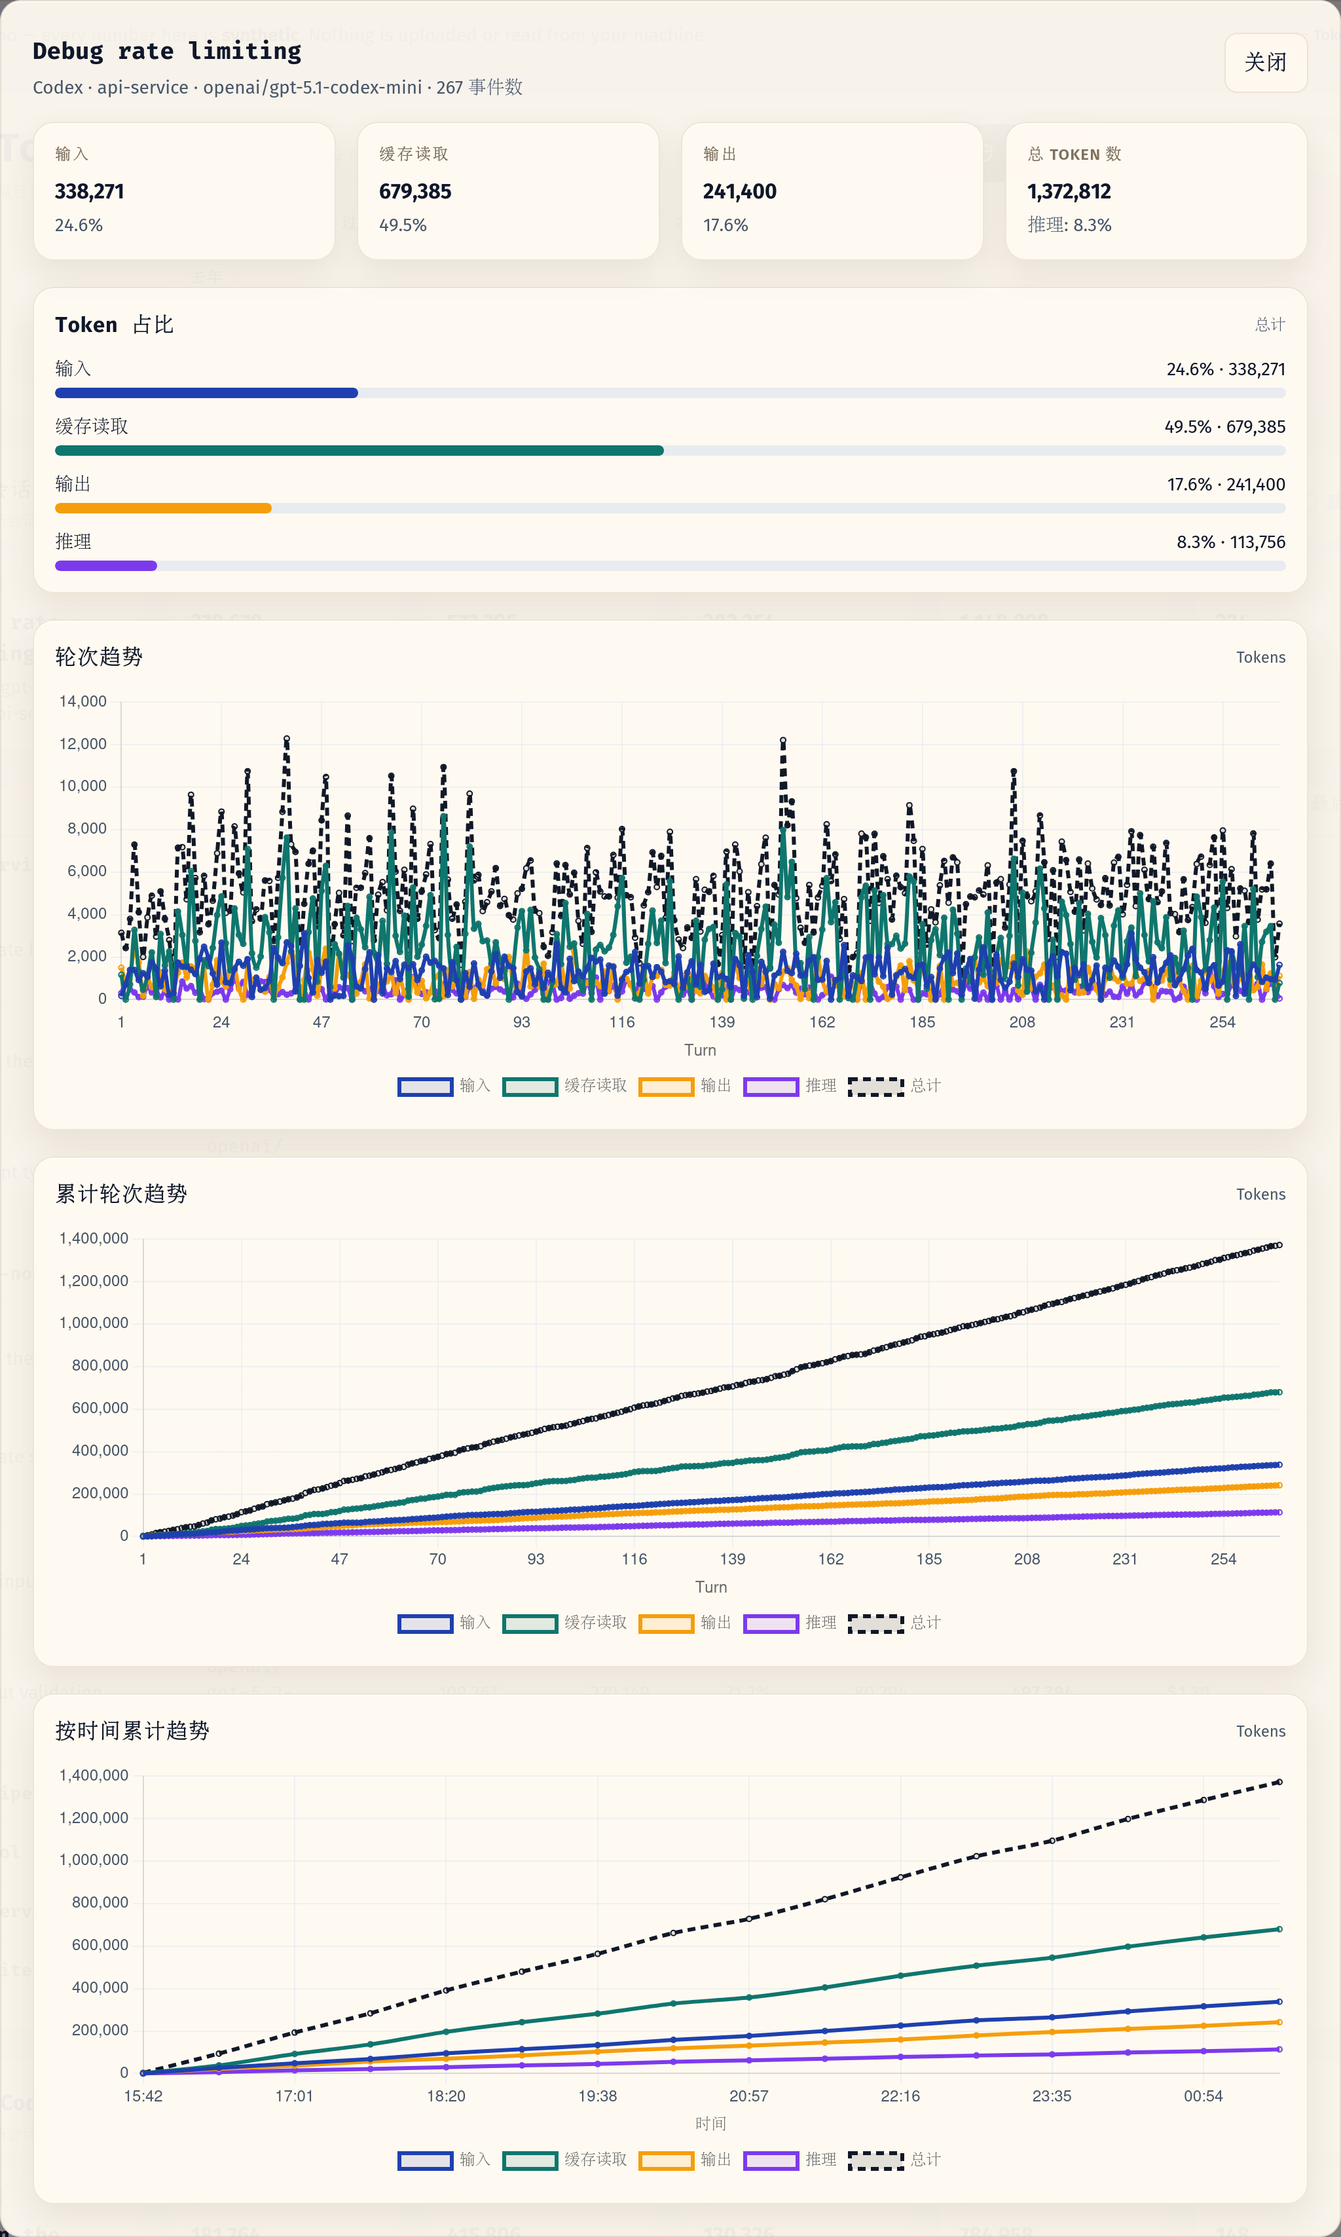
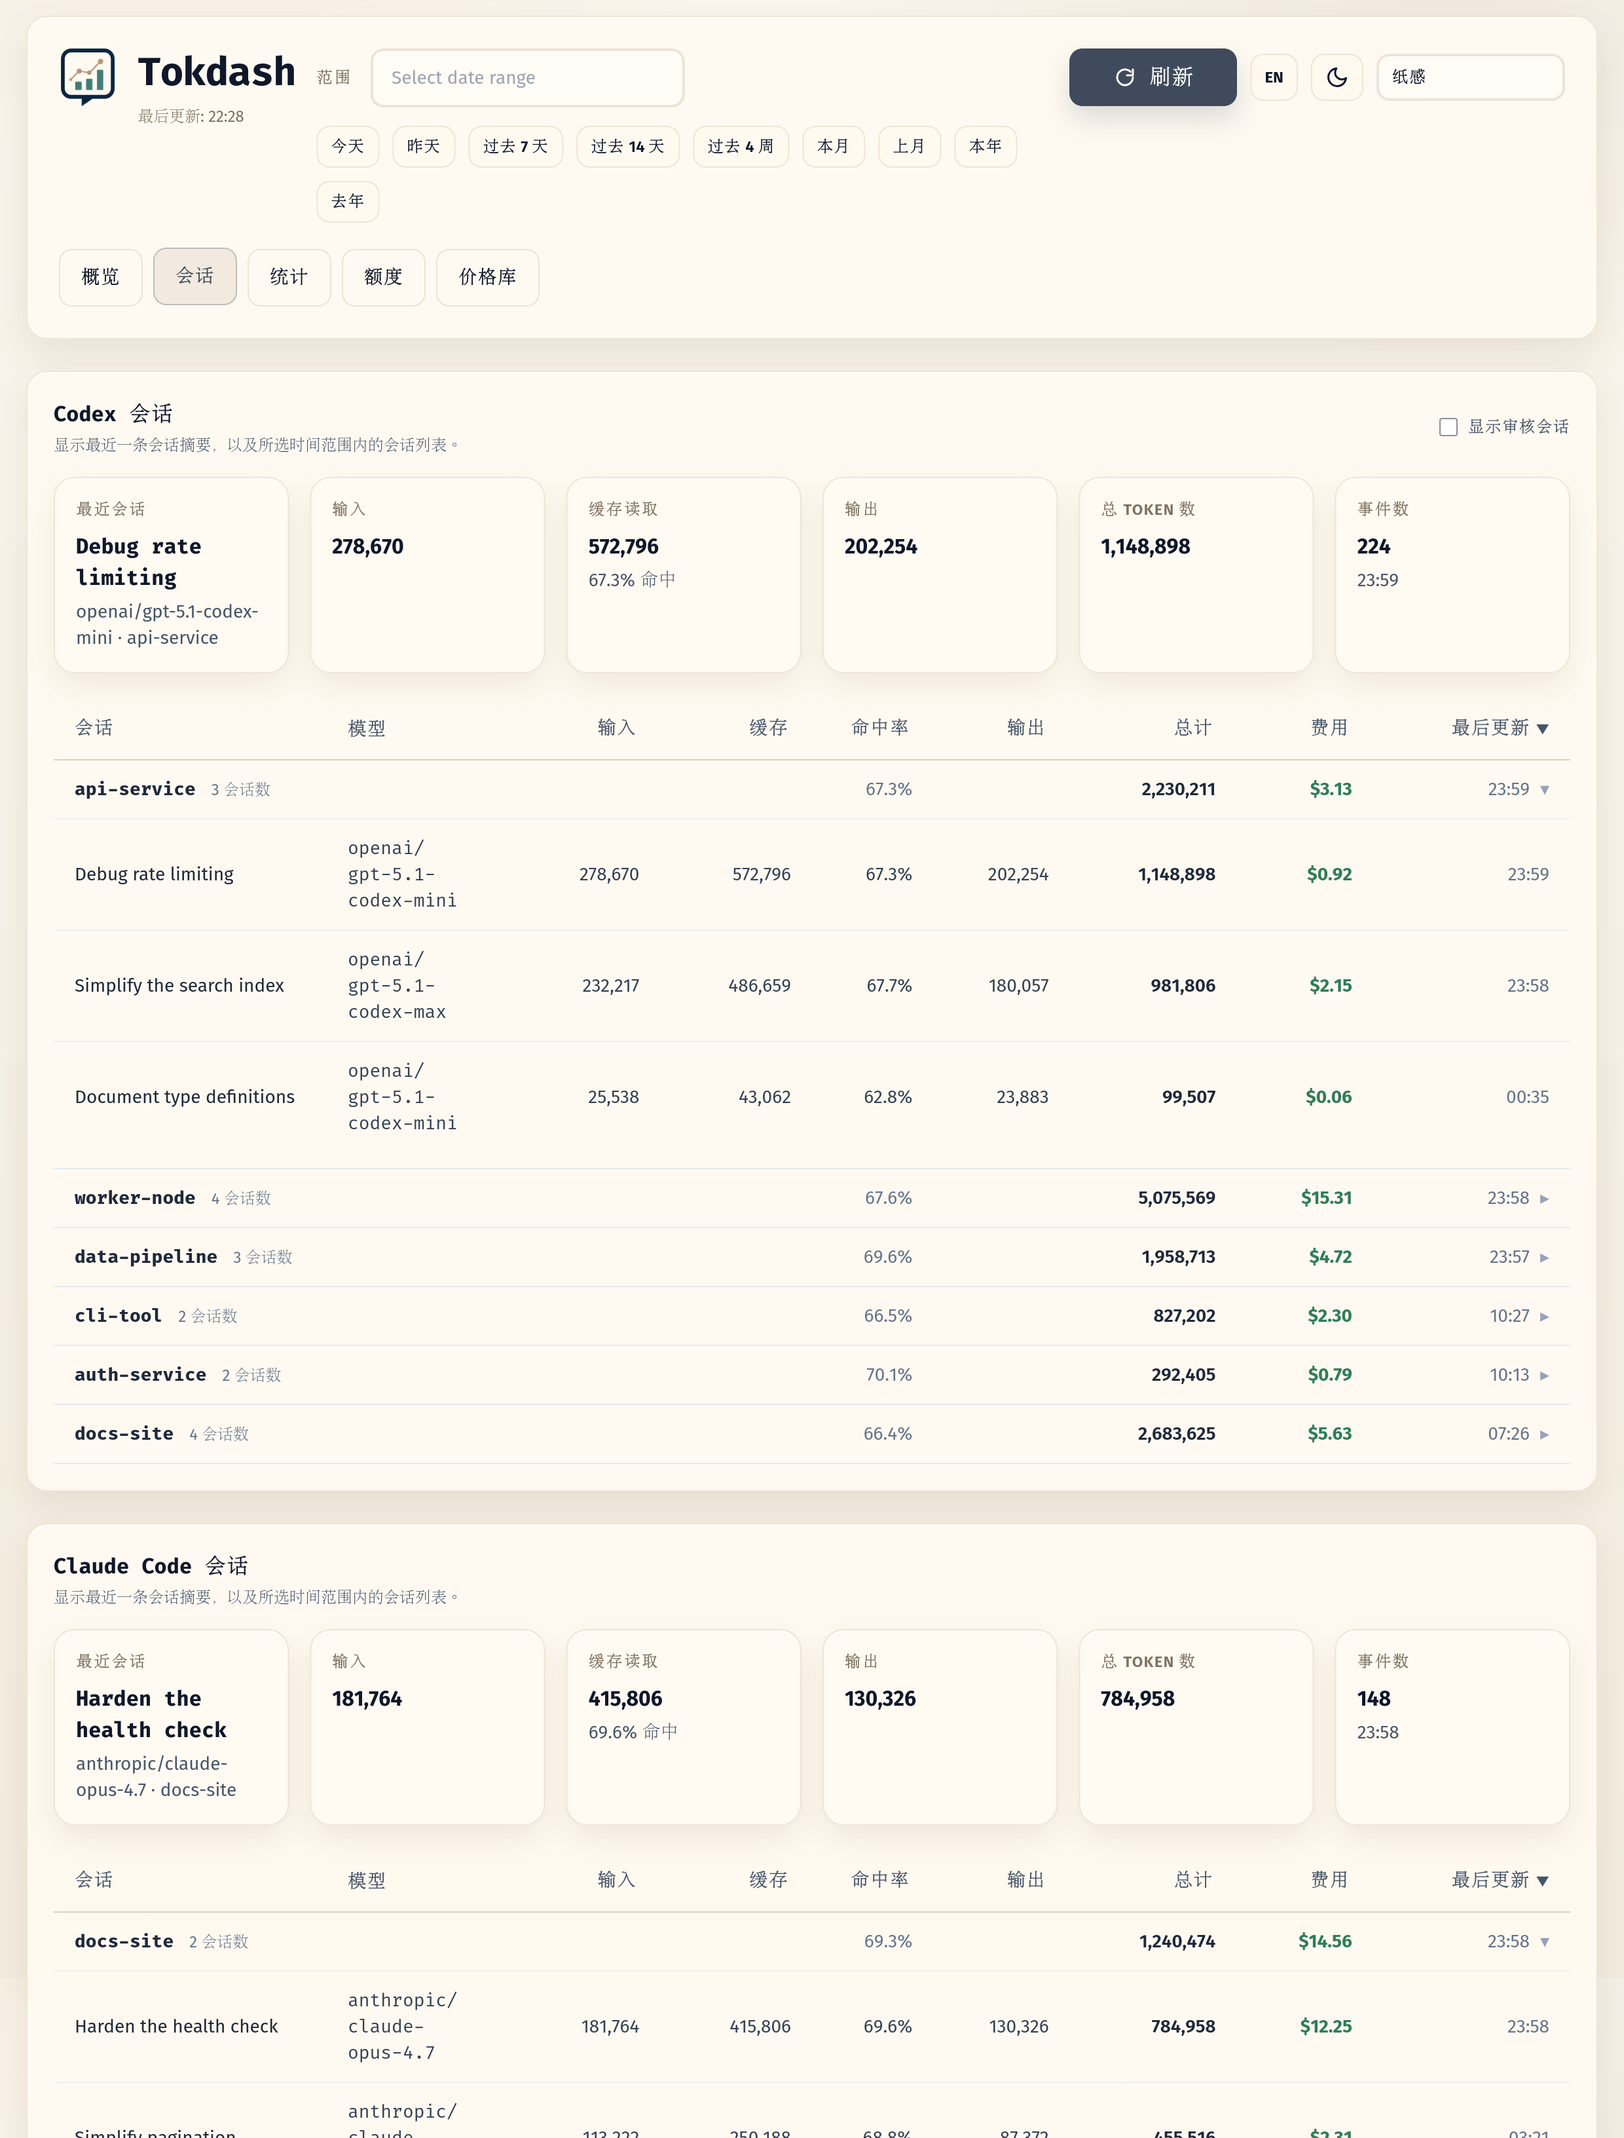
update readme

diff --git a/README.md b/README.md
@@ -45,10 +45,9 @@
 ## Table of Contents
 
 - [Features](#features)
-- [Live demo](#live-demo)
 - [Supported clients](docs/SUPPORTED_CLIENTS.md)
-- [Platform support](#platform-support)
 - [Quick start](#quick-start)
+  - [Platform support](#platform-support)
 - [Configuration](#configuration)
 - [Privacy \& security](#privacy--security)
 - [API (local)](#api-local)
@@ -63,13 +62,11 @@
 
 - **Exact token counts**: Input/Output/Cache token breakdowns
 - **Statusline integration** *[new]*: drop a live token-usage indicator into Claude Code's statusline (or any agent that can hit a local HTTP endpoint) — see [Statusline integration](#statusline-integration)
-- **Custom date ranges**: Flatpickr date picker + quick range buttons (Today, Last 7 Days, This Month, etc.)
+- **Custom date ranges**: Flatpickr date picker + quick range buttons
 - **Contribution calendar**: 2D heatmap + 3D isometric view with Tokens/Cost/Messages metrics
-- **Session explorer**: per-session drill-down for Codex, Claude Code, OpenCode, and Pi
+- **Session explorer**: per-session drill-down
 - **Quota tab** *[new]*: subscription window bars with reset countdowns for Codex, Claude Code, and Antigravity. Codex windows work out of the box from local logs; Codex reset credits, metered features, and all Claude/Antigravity quota need opt-in [live polling](#quota-tracking-optional)
-- **10 style themes**: Elevated, Classic, Vibrant, Midnight, Paper, Liquid, Terminal, Brutalist, Arcade, Studio
-- **Light & dark mode**: auto-detects system preference, manual toggle
-- **PWA support**: installable as a progressive web app
+- **Themes and app polish**: 10 style themes, light/dark mode, and PWA install support
 
 <p align="center">
   <b>Overview</b><br />
@@ -78,15 +75,21 @@
   </a>
 </p>
 <p align="center">
-  <b>Session detail</b><br />
+  <b>Sessions</b><br />
   <a href="https://tokdash.github.io/demo/">
-    <img src="https://raw.githubusercontent.com/JingbiaoMei/Tokdash/main/docs/assets/demo-session-en.png" alt="Tokdash session detail - click for live demo" width="720" />
+    <img src="https://raw.githubusercontent.com/JingbiaoMei/Tokdash/main/docs/assets/demo-session-en.png" alt="Tokdash sessions view - click for live demo" width="860" />
   </a>
 </p>
 <p align="center">
-  <b>Usage heatmap</b><br />
+  <b>Monthly usage heatmap</b><br />
   <a href="https://tokdash.github.io/demo/">
-    <img src="https://raw.githubusercontent.com/JingbiaoMei/Tokdash/main/docs/assets/demo-heatmap-en.png" alt="Tokdash usage heatmap - click for live demo" width="860" />
+    <img src="https://raw.githubusercontent.com/JingbiaoMei/Tokdash/main/docs/assets/demo-heatmap-en.png" alt="Tokdash monthly usage heatmap - click for live demo" width="860" />
+  </a>
+</p>
+<p align="center">
+  <b>Yearly usage heatmap</b><br />
+  <a href="https://tokdash.github.io/demo/">
+    <img src="https://raw.githubusercontent.com/JingbiaoMei/Tokdash/main/docs/assets/demo-heatmap-year-en.png" alt="Tokdash yearly usage heatmap - click for live demo" width="860" />
   </a>
 </p>
 <p align="center">
@@ -96,38 +99,19 @@
   </a>
 </p>
 <p align="center">
-  <b>Codex quota close-up</b><br />
+  <b>Codex quota and reset credits</b><br />
   <a href="https://tokdash.github.io/demo/">
-    <img src="https://raw.githubusercontent.com/JingbiaoMei/Tokdash/main/docs/assets/demo-quota-codex-en.png" alt="Tokdash Codex quota close-up - click for live demo" width="440" />
+    <img src="https://raw.githubusercontent.com/JingbiaoMei/Tokdash/main/docs/assets/demo-quota-codex-en.png" alt="Tokdash Codex quota and reset credits - click for live demo" width="440" />
   </a>
 </p>
 
-## Live demo
+## Quick start
 
-A static demo of the current dashboard is hosted at
-**[tokdash.github.io/demo](https://tokdash.github.io/demo/)** — no install required.
-(The project home page is **[tokdash.github.io](https://tokdash.github.io/)**.)
-
-The demo runs the unmodified Tokdash frontend against an in-browser shim that
-returns deterministic, fully synthetic data. You can:
-
-- switch between Overview / Sessions / Stats / Pricing tabs,
-- pick any date range (or the Today / 7-day / 30-day shortcuts),
-- toggle light/dark and all 10 style themes,
-- drill into a synthetic Codex / Claude Code / OpenCode session,
-- browse the read-only pricing database.
-
-Source for the demo lives at
-[tokdash/tokdash.github.io](https://github.com/tokdash/tokdash.github.io).
-Nothing is uploaded; nothing is read from your machine.
-
-## Platform support
+### Platform support
 
 - **Linux (including WSL2):** supported
-- **macOS:** experimental — `tokdash serve` and `tokdash setup` (per-user launchd LaunchAgent) are implemented, and the full test suite now runs on macOS CI (including the Claude quota Keychain integration test). Real-Mac validation of the launchd service flow is still pending; treat native macOS as experimental until confirmed.
-- **Windows (native):** experimental — foreground `tokdash serve` and `tokdash setup` via Windows Task Scheduler are available in `v1.0.5+`, with Windows CI and smoke-test coverage. Broader real-world Task Scheduler validation is still ongoing. WSL2 remains the most fully verified Windows path. See [`docs/WINDOWS_SUPPORT_PLAN.md`](docs/WINDOWS_SUPPORT_PLAN.md) for the tiered rollout and current status.
-
-## Quick start
+- **macOS:** supported and verified, including `tokdash setup`, launchd, and Claude quota Keychain integration
+- **Windows (native):** experimental; WSL2 remains the recommended Windows path. See [`docs/WINDOWS_SUPPORT_PLAN.md`](docs/WINDOWS_SUPPORT_PLAN.md).
 
 ### Prerequisites
 
@@ -183,7 +167,21 @@ tokdash doctor
 `doctor` checks the runtime, background service, configured port, data paths, and update-check
 status. Use `tokdash doctor --json` for automation.
 
-### Existing installs (Migration from before V1.0)
+### Update or remove
+
+```bash
+tokdash update       # upgrade the managed runtime and restart the service when possible
+tokdash uninstall    # reverse exactly what setup created; keeps usage history by default
+```
+
+`update` only drives install methods Tokdash can safely manage. If your runtime was installed
+by a package manager Tokdash does not own, it prints the exact manual guidance instead of
+mutating that environment. For managed runtimes, `update` reports the Tokdash version before
+and after the upgrade; if the version is unchanged, it says Tokdash is already at that version
+instead of implying a new package was installed.
+
+<details>
+<summary>Existing installs: migration from before v1.0</summary>
 
 If you installed Tokdash before the onboarding flow, upgrade first:
 
@@ -217,18 +215,7 @@ This keeps your usage history under `~/.tokdash`, rewrites the user service to r
 upgrade that managed venv and restart the service. If you installed with pipx, you can
 instead keep the pipx runtime and upgrade with `tokdash update` or `pipx upgrade tokdash`.
 
-### Update or remove
-
-```bash
-tokdash update       # upgrade the managed runtime and restart the service when possible
-tokdash uninstall    # reverse exactly what setup created; keeps usage history by default
-```
-
-`update` only drives install methods Tokdash can safely manage. If your runtime was installed
-by a package manager Tokdash does not own, it prints the exact manual guidance instead of
-mutating that environment. For managed runtimes, `update` reports the Tokdash version before
-and after the upgrade; if the version is unchanged, it says Tokdash is already at that version
-instead of implying a new package was installed.
+</details>
 
 ### Remote access
 

diff --git a/README_CN.md b/README_CN.md
@@ -44,10 +44,9 @@
 ## 目录
 
 - [功能特性](#功能特性)
-- [在线 Demo](#在线-demo)
 - [已支持客户端](docs/SUPPORTED_CLIENTS.md)
-- [平台支持](#平台支持)
 - [快速开始](#快速开始)
+  - [平台支持](#平台支持)
 - [配置](#配置)
 - [隐私与安全](#隐私与安全)
 - [API（本地）](#api本地)
@@ -62,12 +61,10 @@
 
 - **精确 Token 统计**：输入 / 输出 / 缓存 Token 明细
 - **状态栏集成** *[新]*：把实时 Token 使用量挂到 Claude Code（或任何能访问本地 HTTP 端点的 Agent）的状态栏中 — 见[状态栏集成](#状态栏集成statusline-integration)
-- **自定义日期范围**：Flatpickr 日期选择器 + 快捷按钮（今天、最近 7 天、本月等）
+- **自定义日期范围**：Flatpickr 日期选择器 + 快捷按钮
 - **贡献日历**：2D 热力图 + 3D 等距视图，支持 Tokens / Cost / Messages 切换
-- **会话浏览器**：Codex、Claude Code、OpenCode、Pi 的逐会话下钻
-- **10 款样式主题**：Elevated、Classic、Vibrant、Midnight、Paper、Liquid、Terminal、Brutalist、Arcade、Studio
-- **明暗模式**：自动跟随系统偏好，支持手动切换
-- **PWA 支持**：可作为渐进式 Web 应用安装
+- **会话浏览器**：逐会话下钻
+- **主题与应用体验**：10 款样式主题、明暗模式与 PWA 安装支持
 
 <p align="center">
   <b>总览</b><br />
@@ -76,15 +73,21 @@
   </a>
 </p>
 <p align="center">
-  <b>会话详情</b><br />
+  <b>会话列表</b><br />
   <a href="https://tokdash.github.io/demo/">
-    <img src="https://raw.githubusercontent.com/JingbiaoMei/Tokdash/main/docs/assets/demo-session-cn.png" alt="Tokdash 会话详情 — 点击体验在线 Demo" width="720" />
+    <img src="https://raw.githubusercontent.com/JingbiaoMei/Tokdash/main/docs/assets/demo-session-cn.png" alt="Tokdash 会话列表 — 点击体验在线 Demo" width="860" />
   </a>
 </p>
 <p align="center">
-  <b>使用热力图</b><br />
+  <b>月度使用热力图</b><br />
   <a href="https://tokdash.github.io/demo/">
-    <img src="https://raw.githubusercontent.com/JingbiaoMei/Tokdash/main/docs/assets/demo-heatmap-cn.png" alt="Tokdash 使用热力图 — 点击体验在线 Demo" width="860" />
+    <img src="https://raw.githubusercontent.com/JingbiaoMei/Tokdash/main/docs/assets/demo-heatmap-cn.png" alt="Tokdash 月度使用热力图 — 点击体验在线 Demo" width="860" />
+  </a>
+</p>
+<p align="center">
+  <b>年度使用热力图</b><br />
+  <a href="https://tokdash.github.io/demo/">
+    <img src="https://raw.githubusercontent.com/JingbiaoMei/Tokdash/main/docs/assets/demo-heatmap-year-cn.png" alt="Tokdash 年度使用热力图 — 点击体验在线 Demo" width="860" />
   </a>
 </p>
 <p align="center">
@@ -94,40 +97,19 @@
   </a>
 </p>
 <p align="center">
-  <b>Codex 额度局部放大</b><br />
+  <b>Codex 额度与重置额度</b><br />
   <a href="https://tokdash.github.io/demo/">
-    <img src="https://raw.githubusercontent.com/JingbiaoMei/Tokdash/main/docs/assets/demo-quota-codex-cn.png" alt="Tokdash Codex 额度局部放大 — 点击体验在线 Demo" width="440" />
+    <img src="https://raw.githubusercontent.com/JingbiaoMei/Tokdash/main/docs/assets/demo-quota-codex-cn.png" alt="Tokdash Codex 额度与重置额度 — 点击体验在线 Demo" width="440" />
   </a>
 </p>
 
-## 在线 Demo
+## 快速开始
 
-仪表盘的静态在线版本：**[tokdash.github.io/demo](https://tokdash.github.io/demo/)**，
-无需安装即可体验。（项目官网为 **[tokdash.github.io](https://tokdash.github.io/)**。）
-
-Demo 使用未经修改的 Tokdash 前端，配合浏览器内的 Mock 层返回确定性的合成数据。
-你可以：
-
-- 切换 Overview / Sessions / Stats / Pricing 各页签，
-- 选择任意日期范围（或 Today / 最近 7 天 / 最近 30 天 等快捷按钮），
-- 在浅色 / 深色模式与全部 10 款主题之间切换，
-- 进入 Codex / Claude Code / OpenCode 的合成会话查看明细，
-- 浏览只读的定价数据库。
-
-Demo 源码：[tokdash/tokdash.github.io](https://github.com/tokdash/tokdash.github.io)。
-不会上传任何数据，也不会读取你本地的任何文件。
-
-## 平台支持
+### 平台支持
 
 - **Linux（含 WSL2）**：支持
-- **macOS**：实验性支持 —— `tokdash serve` 与 `tokdash setup`（用户级 launchd LaunchAgent）均已实现，完整测试套件现已在 macOS CI 上运行（含 Claude 额度钥匙串集成测试）。launchd 后台服务流程仍待真实 Mac 环境验证；在确认之前请按实验性支持看待。
-- **Windows（原生）**：实验性支持 —— `v1.0.5+` 已支持前台 `tokdash serve`，以及通过
-  Windows 任务计划程序（Task Scheduler）运行的 `tokdash setup` 后台服务，并已有 Windows CI
-  与基础 smoke test 覆盖。更广泛的真实 Task Scheduler 使用场景仍在验证中；WSL2 仍是 Windows
-  上验证最完整的路径。分阶段计划与当前状态见
-  [`docs/WINDOWS_SUPPORT_PLAN.md`](docs/WINDOWS_SUPPORT_PLAN.md)（英文）。
-
-## 快速开始
+- **macOS**：支持并已验证，包括 `tokdash setup`、launchd 与 Claude 额度钥匙串集成
+- **Windows（原生）**：实验性支持；Windows 上仍推荐 WSL2。见 [`docs/WINDOWS_SUPPORT_PLAN.md`](docs/WINDOWS_SUPPORT_PLAN.md)（英文）。
 
 ### 前置要求
 
@@ -181,7 +163,19 @@ tokdash doctor
 `doctor` 会检查运行时、后台服务、配置端口、数据路径以及更新检查状态。自动化场景可使用
 `tokdash doctor --json`。
 
-### 既有安装 (迁移到 V1.0)
+### 更新或移除
+
+```bash
+tokdash update       # 升级受管运行时，并在可能时重启服务
+tokdash uninstall    # 精确撤销 setup 创建的内容；默认保留使用历史
+```
+
+`update` 只会驱动 Tokdash 能安全管理的安装方式。如果当前运行时来自 Tokdash 不拥有的包管理器，
+它会打印明确的手动升级建议，而不是修改该环境。对于受管运行时，`update` 会显示升级前后的
+Tokdash 版本；如果版本没有变化，会明确说明 Tokdash 已经在该版本，而不是让人误以为安装了新包。
+
+<details>
+<summary>既有安装：从 v1.0 前迁移</summary>
 
 如果你是在 onboarding 流程加入前安装的 Tokdash，请先升级：
 
@@ -214,16 +208,7 @@ tokdash doctor
 受管 venv 并重启服务。如果你使用的是 pipx 安装，也可以继续使用 pipx 运行时，并通过
 `tokdash update` 或 `pipx upgrade tokdash` 升级。
 
-### 更新或移除
-
-```bash
-tokdash update       # 升级受管运行时，并在可能时重启服务
-tokdash uninstall    # 精确撤销 setup 创建的内容；默认保留使用历史
-```
-
-`update` 只会驱动 Tokdash 能安全管理的安装方式。如果当前运行时来自 Tokdash 不拥有的包管理器，
-它会打印明确的手动升级建议，而不是修改该环境。对于受管运行时，`update` 会显示升级前后的
-Tokdash 版本；如果版本没有变化，会明确说明 Tokdash 已经在该版本，而不是让人误以为安装了新包。
+</details>
 
 ### 远程访问
 
